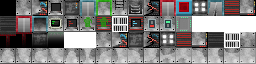
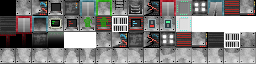
Refine HUD bars and terrain feature rendering

Changed region(s): [[0.6875, 0.0, 0.75, 0.5]]

diff --git a/core/src/main/java/com/wafitz/pixelspacebase/ui/StatusPane.java b/core/src/main/java/com/wafitz/pixelspacebase/ui/StatusPane.java
@@ -36,7 +36,6 @@ import com.watabou.noosa.Camera;
 import com.watabou.noosa.ColorBlock;
 import com.watabou.noosa.Game;
 import com.watabou.noosa.Image;
-import com.watabou.noosa.NinePatch;
 import com.watabou.noosa.TouchArea;
 import com.watabou.noosa.audio.Sample;
 import com.watabou.noosa.particles.Emitter;
@@ -49,7 +48,7 @@ public class StatusPane extends Component {
     private static final int HP_BAR_X = 31;
     private static final int HP_BAR_Y = 4;
     private static final int HP_BAR_WIDTH = 64;
-    private static final int HP_BAR_HEIGHT = 7;
+    private static final int HP_BAR_HEIGHT = 9;
 
     private static final int HP_BORDER = 0xFF8FA8A8;
     private static final int HP_TRACK = 0xFF14201F;
@@ -58,7 +57,8 @@ public class StatusPane extends Component {
     private static final int HP_CRITICAL_FILL = 0xFFFF4A4A;
     private static final int HP_SHIELD_FILL = 0xFF66E6FF;
 
-    private NinePatch bg;
+    private ColorBlock bg;
+    private Image avatarFrame;
     private Image avatar;
     private float warning;
 
@@ -68,7 +68,8 @@ public class StatusPane extends Component {
     private ColorBlock hpTrack;
     private ColorBlock hpFill;
     private ColorBlock hpShield;
-    private Image exp;
+    private ColorBlock expTrack;
+    private ColorBlock exp;
     private BitmapText hpText;
 
     private BossHealthBar bossHP;
@@ -90,8 +91,11 @@ public class StatusPane extends Component {
     @Override
     protected void createChildren() {
 
-        bg = new NinePatch(Assets.STATUS, 0, 0, 128, 36, 85, 0, 45, 0);
+        bg = new ColorBlock(1, 1, 0xFF080F14);
         add(bg);
+
+        avatarFrame = new Image(Assets.STATUS, 0, 0, 28, 32);
+        add(avatarFrame);
 
         add(new TouchArea(0, 1, 31, 31) {
             @Override
@@ -122,7 +126,7 @@ public class StatusPane extends Component {
         hpTrack = new ColorBlock(1, 1, HP_TRACK);
         add(hpTrack);
 
-        hpFill = new ColorBlock(1, 1, HP_FILL);
+        hpFill = new ColorBlock(1, 1, 0xFFFFFFFF);
         add(hpFill);
 
         hpShield = new ColorBlock(1, 1, HP_SHIELD_FILL);
@@ -132,7 +136,9 @@ public class StatusPane extends Component {
         hpText.hardlight(0xF2FFFF);
         add(hpText);
 
-        exp = new Image(Assets.XP_BAR);
+        expTrack = new ColorBlock(1, 1, HP_TRACK);
+        add(expTrack);
+        exp = new ColorBlock(1, 1, 0xFF66E6FF);
         add(exp);
 
         bossHP = new BossHealthBar();
@@ -161,7 +167,7 @@ public class StatusPane extends Component {
 
         height = 32;
 
-        bg.size(width, bg.height);
+        bg.size(width, height);
 
         avatar.x = bg.x + 15 - avatar.width / 2f;
         avatar.y = bg.y + 16 - avatar.height / 2f;
@@ -179,6 +185,10 @@ public class StatusPane extends Component {
         hpTrack.y = hpFill.y = hpShield.y = HP_BAR_Y + 1;
         hpTrack.size(HP_BAR_WIDTH - 2, HP_BAR_HEIGHT - 2);
 
+        expTrack.x = exp.x = HP_BAR_X;
+        expTrack.y = exp.y = HP_BAR_Y + HP_BAR_HEIGHT + 2;
+        expTrack.size(HP_BAR_WIDTH, 1);
+
         bossHP.setPos(6 + (width - bossHP.width()) / 2, 20);
 
         depth.x = width - 35.5f - depth.width() / 2f;
@@ -187,7 +197,7 @@ public class StatusPane extends Component {
 
         danger.setPos(width - danger.width(), 20);
 
-        buffs.setPos(31, 9);
+        buffs.setPos(31, 18);
 
         btnJournal.setPos(width - 42, 1);
 
@@ -218,8 +228,10 @@ public class StatusPane extends Component {
         float shieldPercent = Math.max(0, Math.min(1, shield / max));
         hpFill.hardlight(healthPercent <= 0.25f ? HP_CRITICAL_FILL : healthPercent <= 0.5f ? HP_LOW_FILL : HP_FILL);
         hpFill.size((HP_BAR_WIDTH - 2) * healthPercent, HP_BAR_HEIGHT - 2);
-        hpShield.size((HP_BAR_WIDTH - 2) * Math.max(0, Math.min(shieldPercent, 1 - healthPercent)), HP_BAR_HEIGHT - 2);
-        hpShield.x = hpFill.x + hpFill.width();
+        // Shield occupies a thin strip, including when health is already full.
+        hpShield.size((HP_BAR_WIDTH - 2) * shieldPercent, 1);
+        hpShield.x = hpTrack.x;
+        hpShield.y = hpTrack.y + HP_BAR_HEIGHT - 3;
         hpShield.visible = shield > 0;
 
         hpText.text(shield > 0 ?
@@ -228,7 +240,8 @@ public class StatusPane extends Component {
         hpText.measure();
         layoutHealthText();
 
-        exp.scale.x = (width / exp.width) * SpacebaseRun.hero.exp / SpacebaseRun.hero.maxExp();
+        exp.size(HP_BAR_WIDTH * Math.max(0f, Math.min(1f,
+                (float) SpacebaseRun.hero.exp / SpacebaseRun.hero.maxExp())), 1);
 
         if (SpacebaseRun.hero.lvl != lastLvl) {
 

diff --git a/core/src/main/java/com/wafitz/pixelspacebase/ui/TerrainFeaturesTilemap.java b/core/src/main/java/com/wafitz/pixelspacebase/ui/TerrainFeaturesTilemap.java
@@ -44,7 +44,6 @@ public class TerrainFeaturesTilemap extends Tilemap {
 
     private int[] map;
     private float[] tileVariance;
-    private int zoneFeatureVariant;
 
     private SparseArray<Mine> mines;
     private SparseArray<Vent> vents;
@@ -60,7 +59,6 @@ public class TerrainFeaturesTilemap extends Tilemap {
         for (int i = 0; i < tileVariance.length; i++)
             tileVariance[i] = Random.Float();
         Random.seed();
-        zoneFeatureVariant = (int) Math.floorMod(SpacebaseRun.seed + ((SpacebaseRun.depth - 1) / 5) * 31L, 2L);
 
         map(SpacebaseRun.level.map, SpacebaseRun.level.width());
 
@@ -113,7 +111,8 @@ public class TerrainFeaturesTilemap extends Tilemap {
         }
 
         if (tile == Terrain.OFFVENT) {
-            return 13 + 16 * ((SpacebaseRun.depth - 1) / 5) + zoneFeatureVariant;
+            // The terrain atlas already contains the complete broken-floor artwork.
+            return -1;
         } else if (tile == Terrain.INACTIVE_VENT) {
             return 15 + 16 * ((SpacebaseRun.depth - 1) / 5);
         } else if (tile == Terrain.LIGHTEDVENT) {

diff --git a/PLAN.md b/PLAN.md
@@ -45,12 +45,12 @@ Use this as the working backlog for the next sprint. Put rough ideas in Suggesti
     - [ ] Pet carrier (needs new sprite and codex for mapping)
     - [ ] Tengu sprite
     - [x] Alien egg
-    - [ ] Fix prison floor alignment
+    - [x] Fix prison floor alignment
     - [ ] Broken floor tiles
     - [x] NPC appearances
     - [ ] Terminals
     - [ ] Breaker
-    - [ ] Jawar
+    - [x] Jawar
     - [ ] Floating terrain traps need to be remapped.
     - [x] Music
         - [x] Engineering Boss
